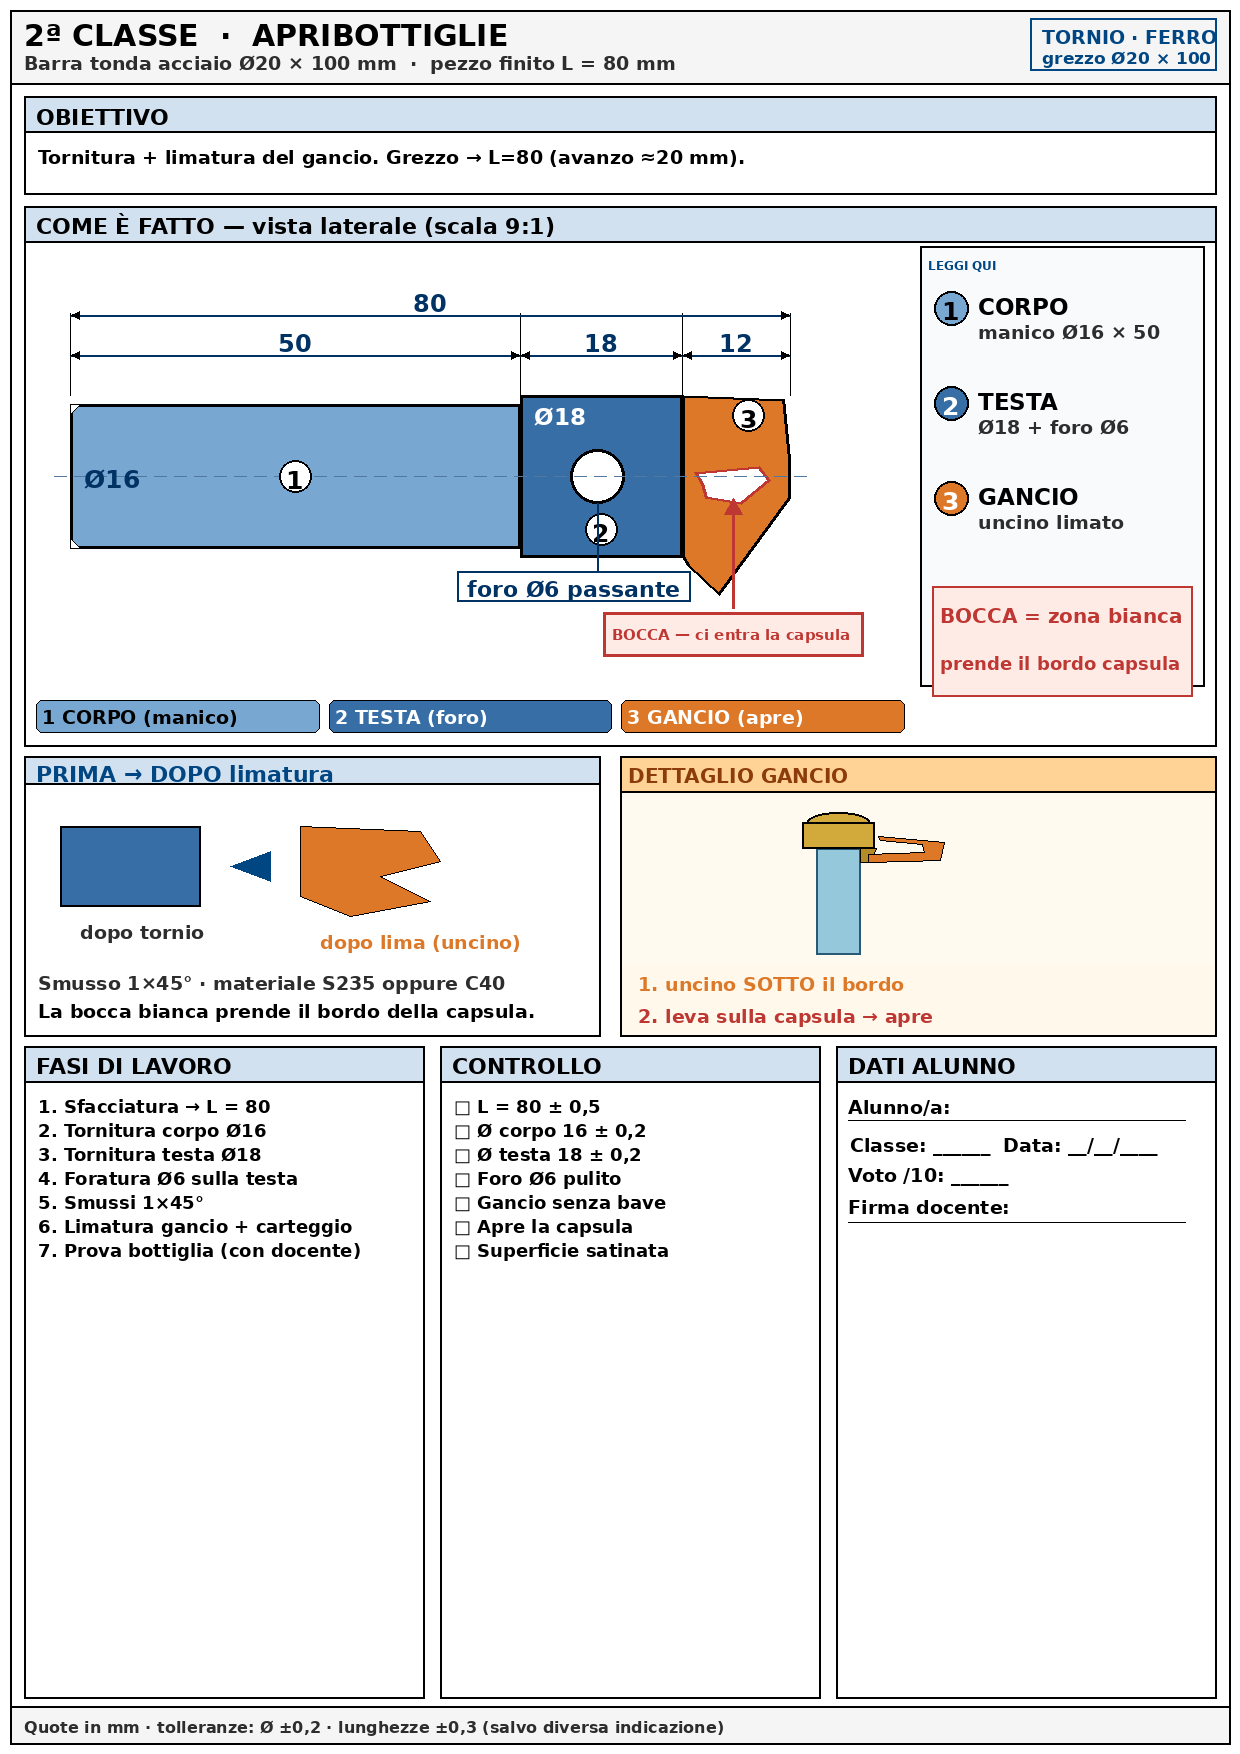
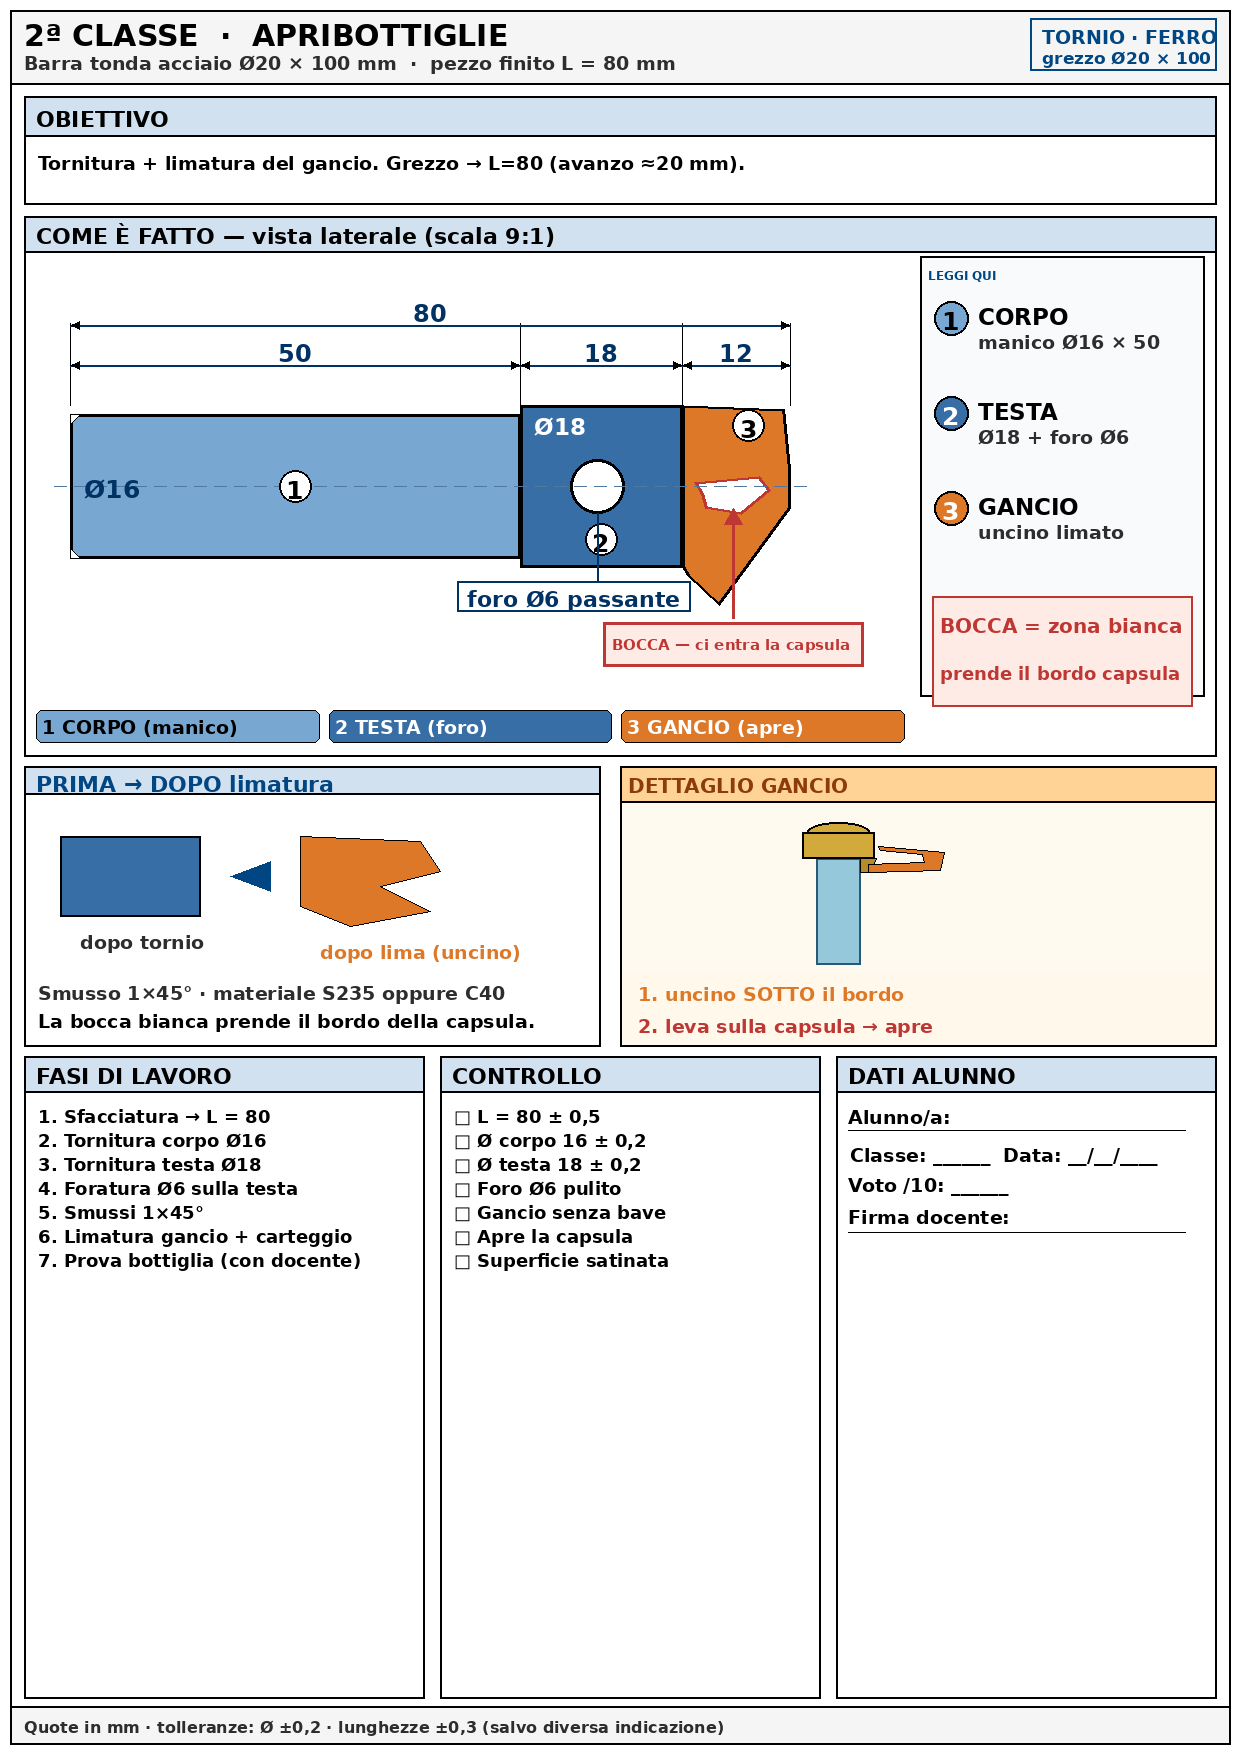
Più aria tra titolo OBIETTIVO, testo e bordi del riquadro.
Header più alto e padding superiore/inferiore aumentati su tutte
le schede progetto.

Changed region(s): [[0.0, 0.0616, 0.9806, 0.7389], [0.1839, 0.4926, 0.2145, 0.5234]]

diff --git a/progetti-ferro-gallery/generate_ferro.py b/progetti-ferro-gallery/generate_ferro.py
@@ -94,16 +94,16 @@ def panel(d, x, y, w, h, title):
 
 
 def write_obiettivo(d, lines, y0=96):
-    """Riquadro OBIETTIVO: testo intero, padding sotto/sopra, mai sulla linea."""
+    """Riquadro OBIETTIVO: titolo e testo lontani da tutte le linee del box."""
     x, w = 24, W - 48
-    hdr = 36
-    pad_top, pad_bot = 14, 18
+    hdr = 40
+    pad_top, pad_bot = 16, 22
     line_h = 30
     h = hdr + pad_top + len(lines) * line_h + pad_bot
-    # disegna box (stesso stile di panel, senza riuso per altezza header coerente)
     d.rectangle([x, y0, x + w, y0 + h], outline=BLACK, width=2)
     d.rectangle([x, y0, x + w, y0 + hdr], fill=LIGHT, outline=BLACK, width=2)
-    d.text((x + 12, y0 + 8), "OBIETTIVO", fill=BLACK, font=F13)
+    # titolo centrato nell’header (aria sopra e sotto la linea)
+    d.text((x + 12, y0 + 10), "OBIETTIVO", fill=BLACK, font=F13)
     cy = y0 + hdr + pad_top
     max_w = w - 28
     for i, item in enumerate(lines):
@@ -111,7 +111,6 @@ def write_obiettivo(d, lines, y0=96):
             text, fill = item
         else:
             text, fill = item, BLACK
-        # riduci font se troppo largo — una sola riga, mai wrap che esce
         f = F12
         for sz in range(19, 13, -1):
             f = font_b(sz)
